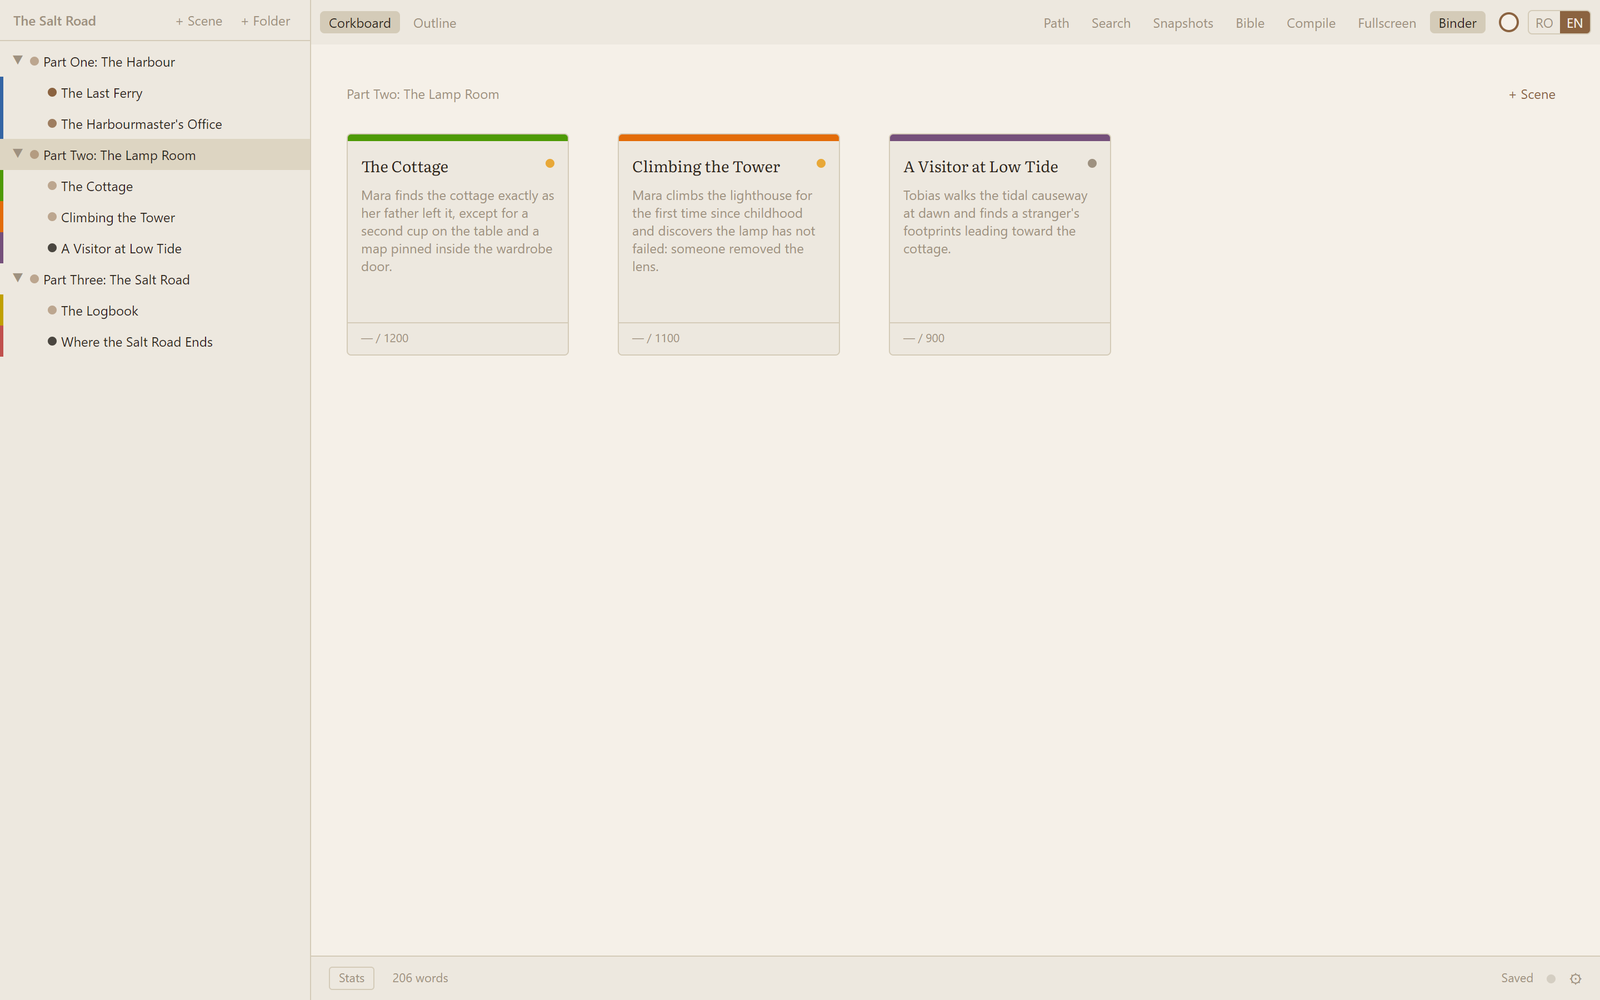
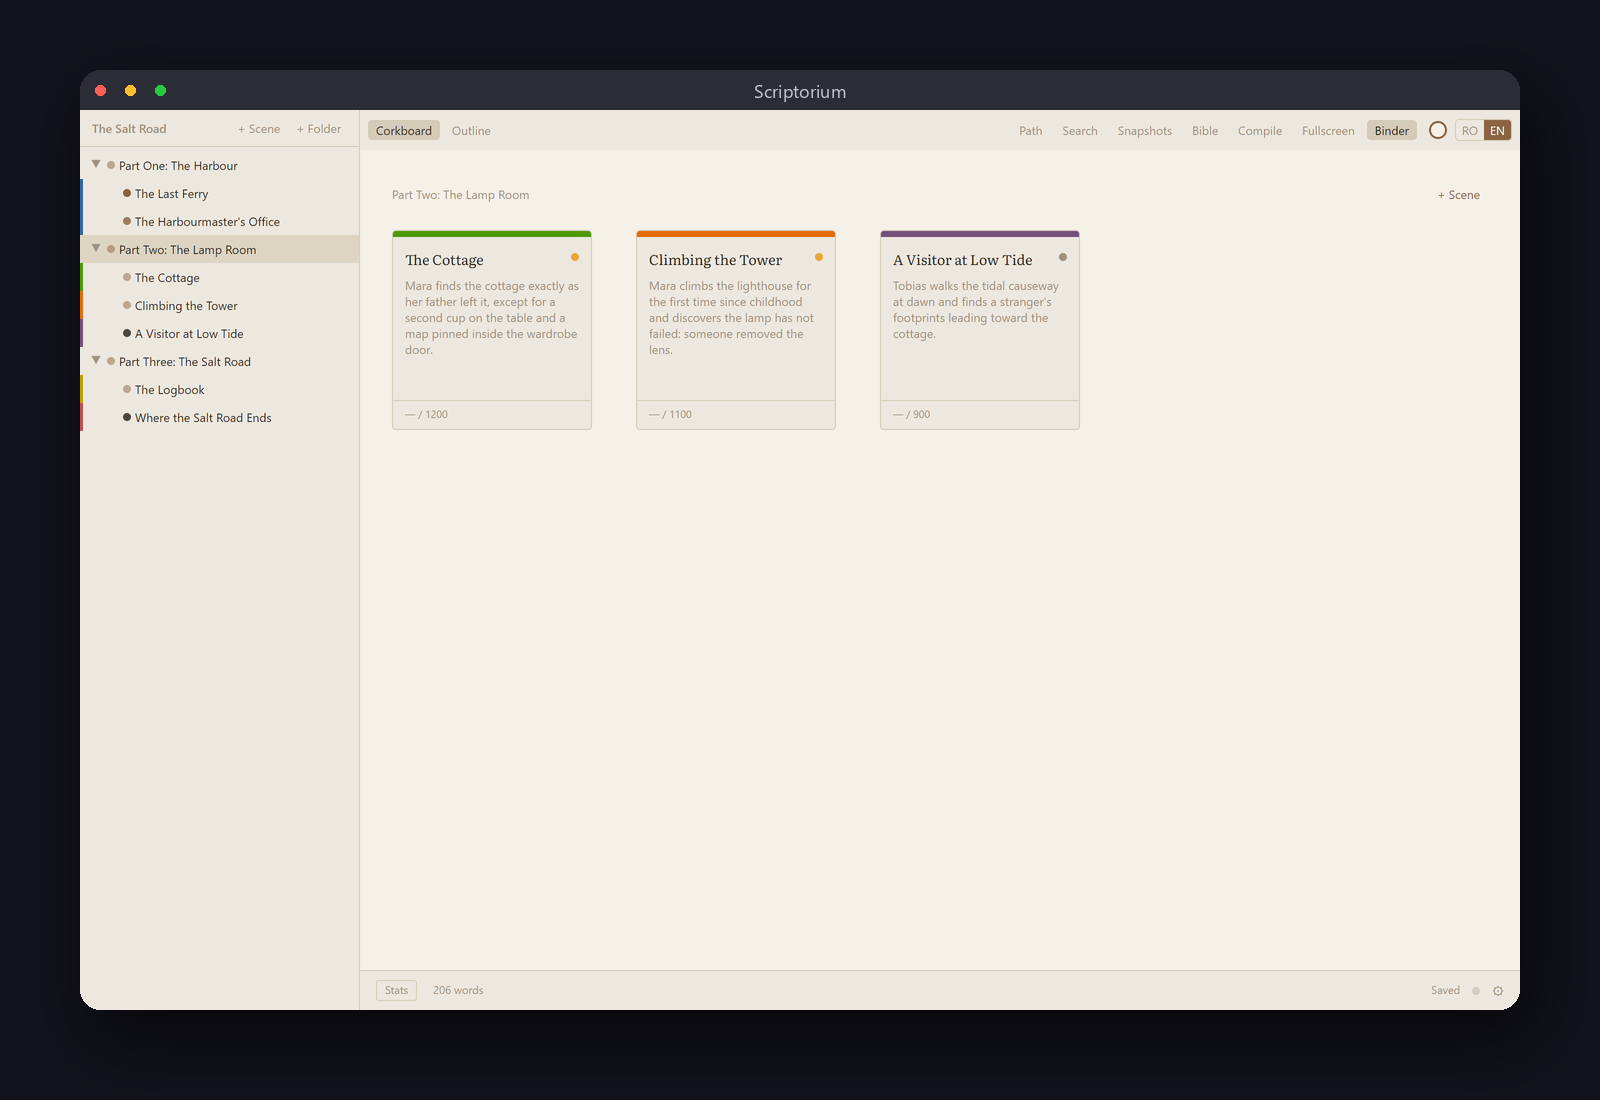
Show framed screenshots and an even gallery in the README

diff --git a/README.md b/README.md
@@ -5,7 +5,7 @@ A calm local writing app for short stories and novels. Scrivener's structure, iA
 Scriptorium is an offline desktop app for Windows that keeps a novel as a binder of plain Markdown scenes, with corkboard and outline views, snapshots, full-text search and Markdown/DOCX export. Built with Electron, React, TypeScript, CodeMirror 6, Zustand, Tailwind CSS and SQLite (FTS5); tested with Vitest and Playwright.
 
 <p align="center">
-  <img src="docs/screenshots/editor-and-binder.png" alt="Scriptorium: the binder next to the distraction-free editor" width="900">
+  <img src="docs/screenshots/cover.png" alt="Scriptorium: the binder and editor, with the dark theme in front" width="900">
 </p>
 
 - **A binder, not a folder.** Scenes and folders reorder by drag; the hierarchy lives in `project.json`, never in filenames. Corkboard and outline views over the same tree.
@@ -17,20 +17,14 @@ Scriptorium is an offline desktop app for Windows that keeps a novel as a binder
 
 ## Screenshots
 
-![A tour of Scriptorium: editor, corkboard, search, snapshots, compile, dark theme](docs/screenshots/tour.gif)
-
 <table>
   <tr>
-    <td width="50%"><img src="docs/screenshots/corkboard.png" alt="Corkboard"><br><sub>Corkboard: scene cards with synopses, colour labels and word targets for one part.</sub></td>
-    <td width="50%"><img src="docs/screenshots/full-text-search.png" alt="Full-text search"><br><sub>Full-text search across the library (SQLite FTS5) with the match highlighted in context.</sub></td>
+    <td width="50%"><img src="docs/screenshots/corkboard.png" alt="Corkboard"><br><sub>Corkboard: scene cards with synopses, colour labels and word targets.</sub></td>
+    <td width="50%"><img src="docs/screenshots/full-text-search.png" alt="Full-text search"><br><sub>Full-text search across the library (SQLite FTS5), match in context.</sub></td>
   </tr>
   <tr>
-    <td width="50%"><img src="docs/screenshots/snapshots-diff.png" alt="Snapshots"><br><sub>Snapshots panel with a line diff against an earlier version of a scene.</sub></td>
-    <td width="50%"><img src="docs/screenshots/export-compile.png" alt="Compile dialog"><br><sub>Compile dialog: chapter headings and a title page, exported to Markdown or DOCX.</sub></td>
-  </tr>
-  <tr>
-    <td width="50%"><img src="docs/screenshots/dark-theme.png" alt="Dark theme"><br><sub>The same editor in the dark "nocturne" theme.</sub></td>
-    <td></td>
+    <td width="50%"><img src="docs/screenshots/snapshots-diff.png" alt="Snapshots"><br><sub>Snapshots: a line diff against an earlier version of a scene.</sub></td>
+    <td width="50%"><img src="docs/screenshots/export-compile.png" alt="Compile dialog"><br><sub>Compile: chapter headings and a title page, to Markdown or DOCX.</sub></td>
   </tr>
 </table>
 
